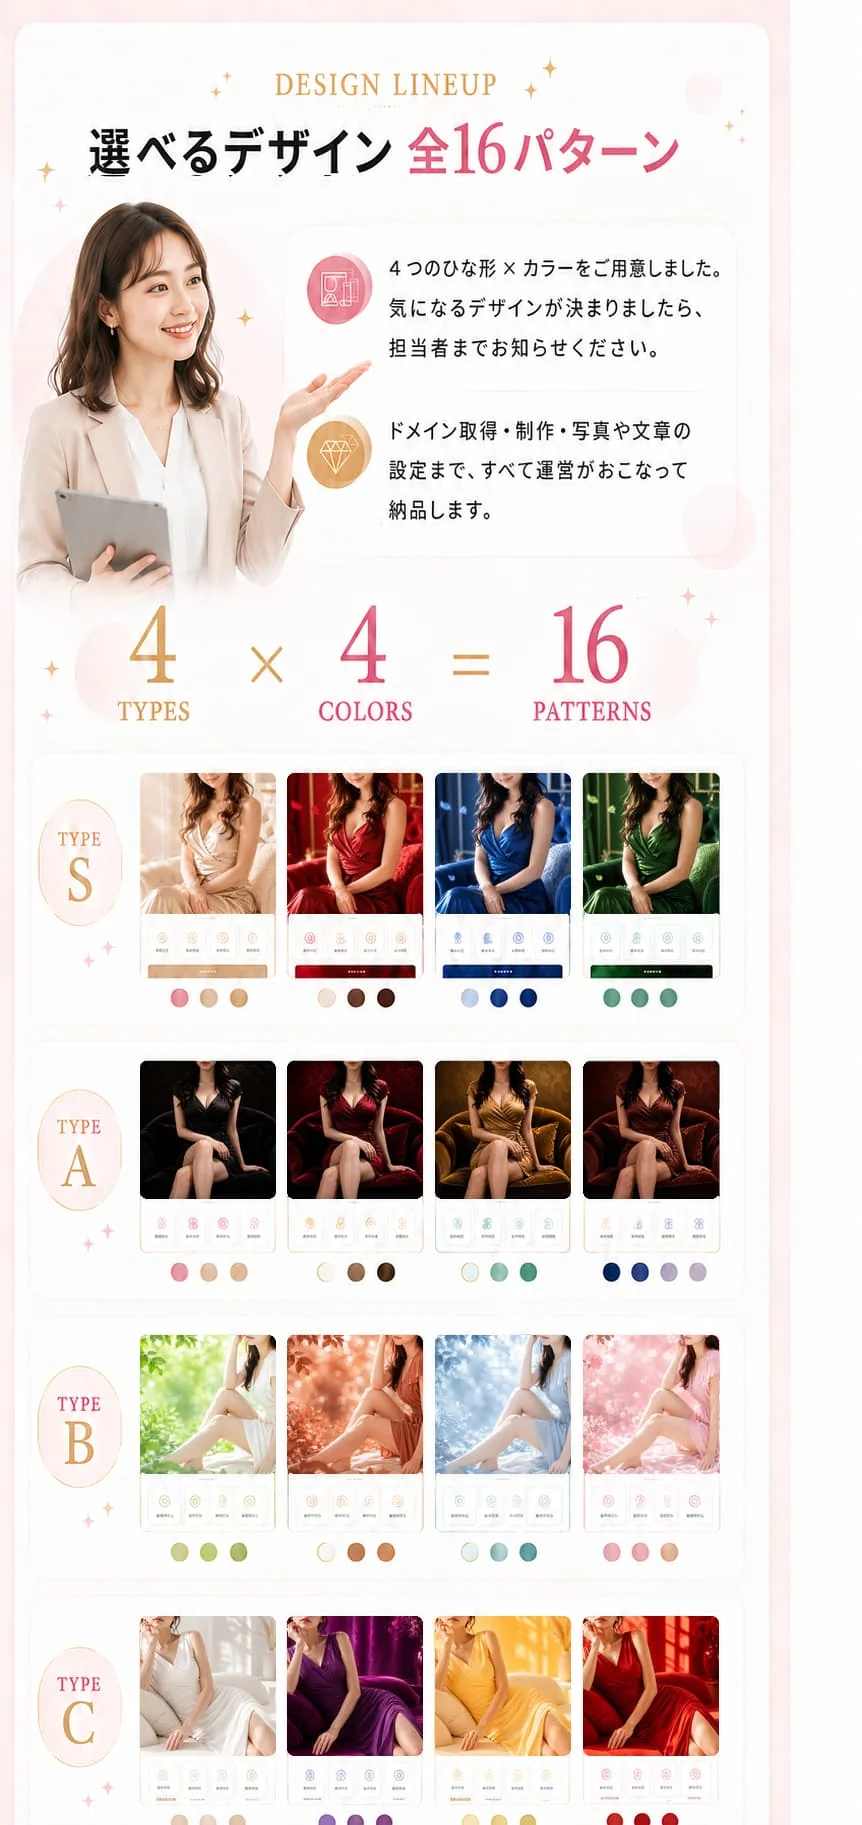
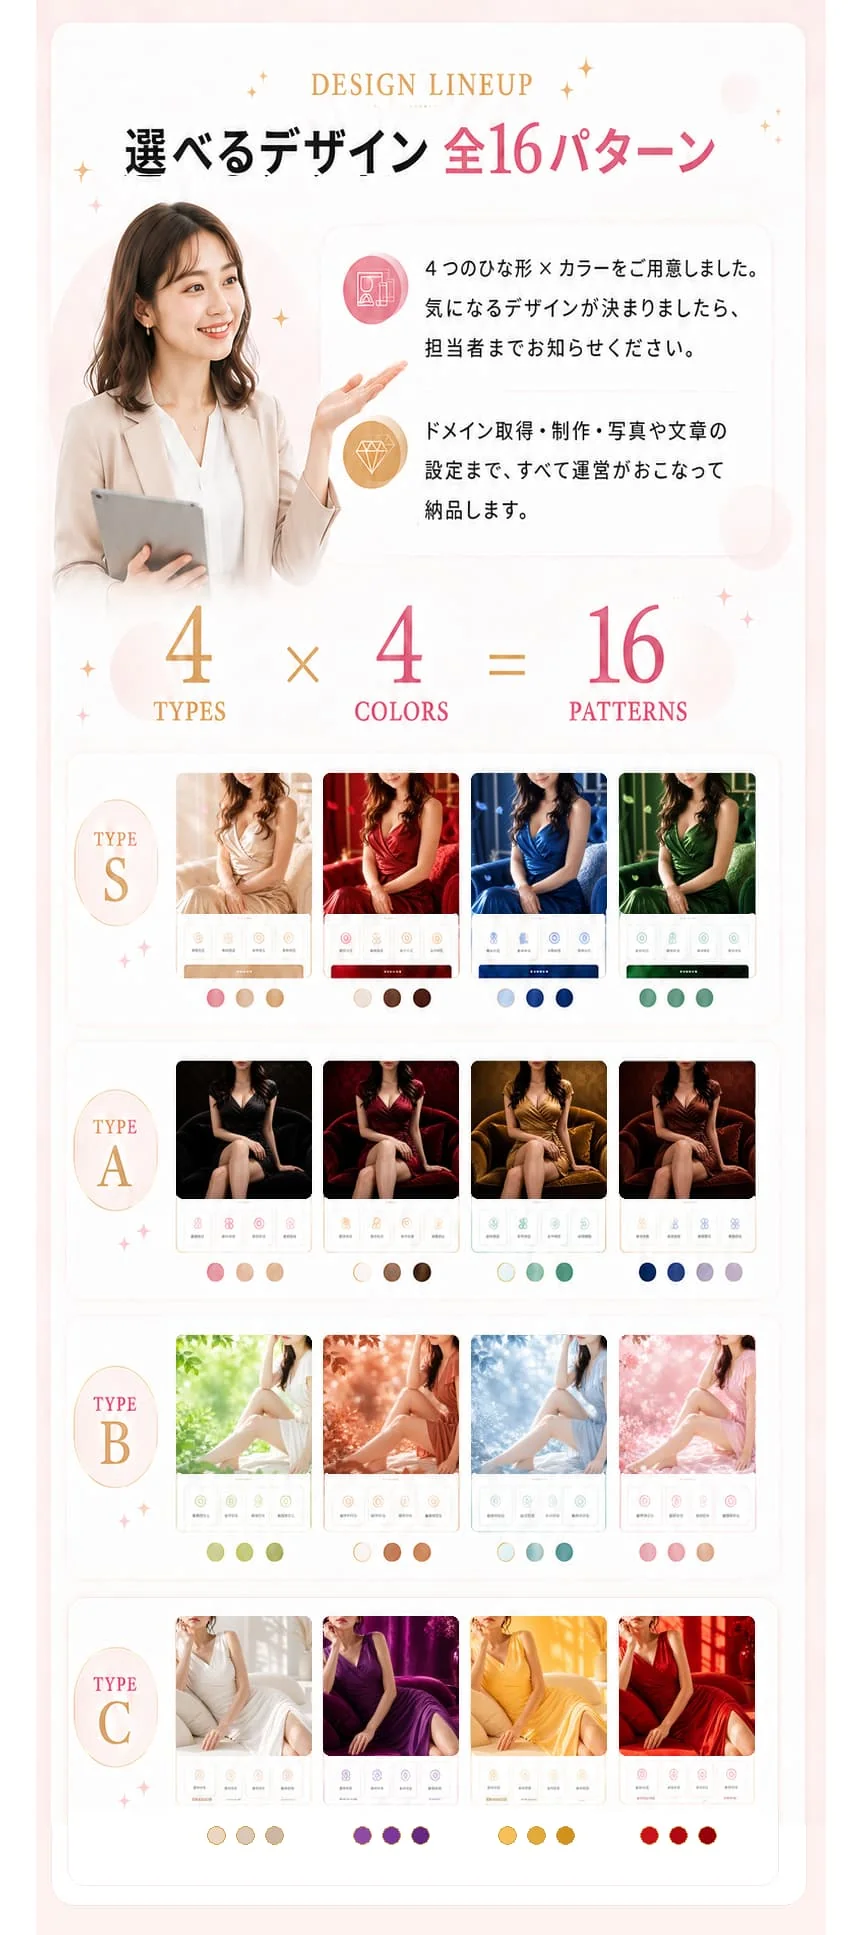
HP紹介ページのDESIGN LINEUPスマホ画像を中央寄せ版に差し替え

diff --git a/src/app/hp/templates/page.tsx b/src/app/hp/templates/page.tsx
@@ -32,7 +32,9 @@ import { HP_TEMPLATES, HP_COLOR_VARIANTS } from '@/app/lib/hpSite';
 //   problem-pc.webp（1672×941・16:9）/ problem-sp.webp（1024×1536・2:3）
 //   solution-pc.webp（1672×941・16:9）/ solution-sp.webp（864×1821・約1:2.1）
 //   strengths-pc.webp（1672×941・16:9）/ strengths-sp.webp（863×1822・約1:2.1）
-//   design-pc.webp（1717×916・約1.87:1）/ design-sp.webp（862×1825・約1:2.1）＋直下に「デザインを見る」ボタン
+//   design-pc.webp（1717×916・約1.87:1）/ design-sp.webp（862×1935・約1:2.24）＋直下に「デザインを見る」ボタン
+//   ※ design-sp は全幅で置くので、中身が画像の中で左右中央に来ているか必ず確認すること。
+//     初版は右側に空白が寄っていて、実機で中身が左にずれて見えた（2026-08-15 に作り直し）。
 // 見出しと本文が焼き込み済み。文章は sr-only で HTML にも残してある
 // （差し替えるときは sr-only の文言も画像と揃えること）。
 //
